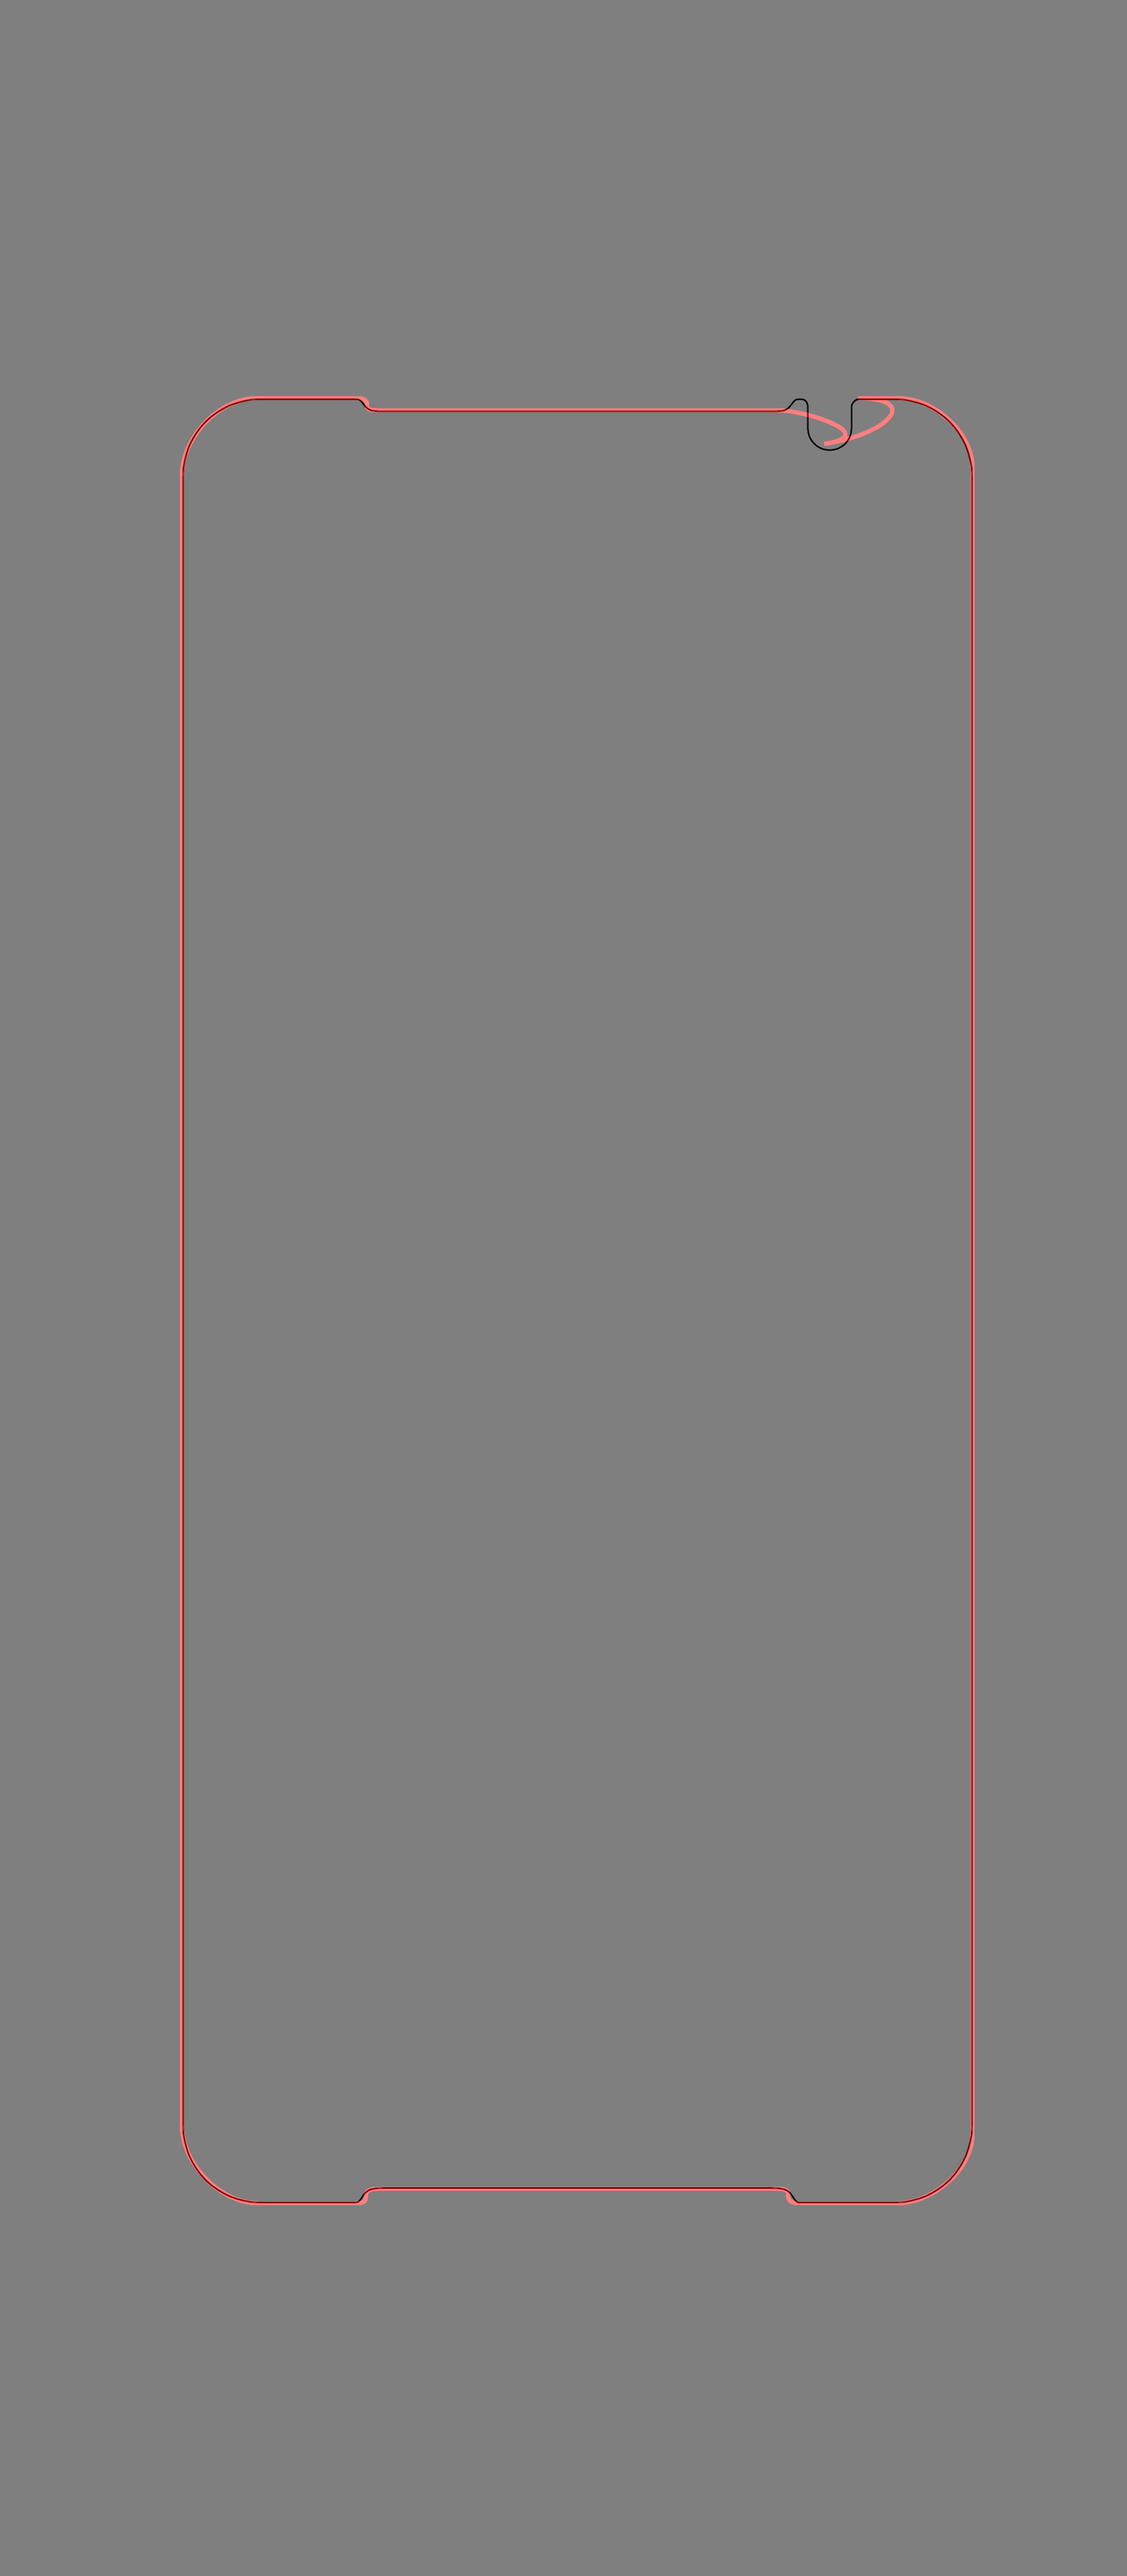
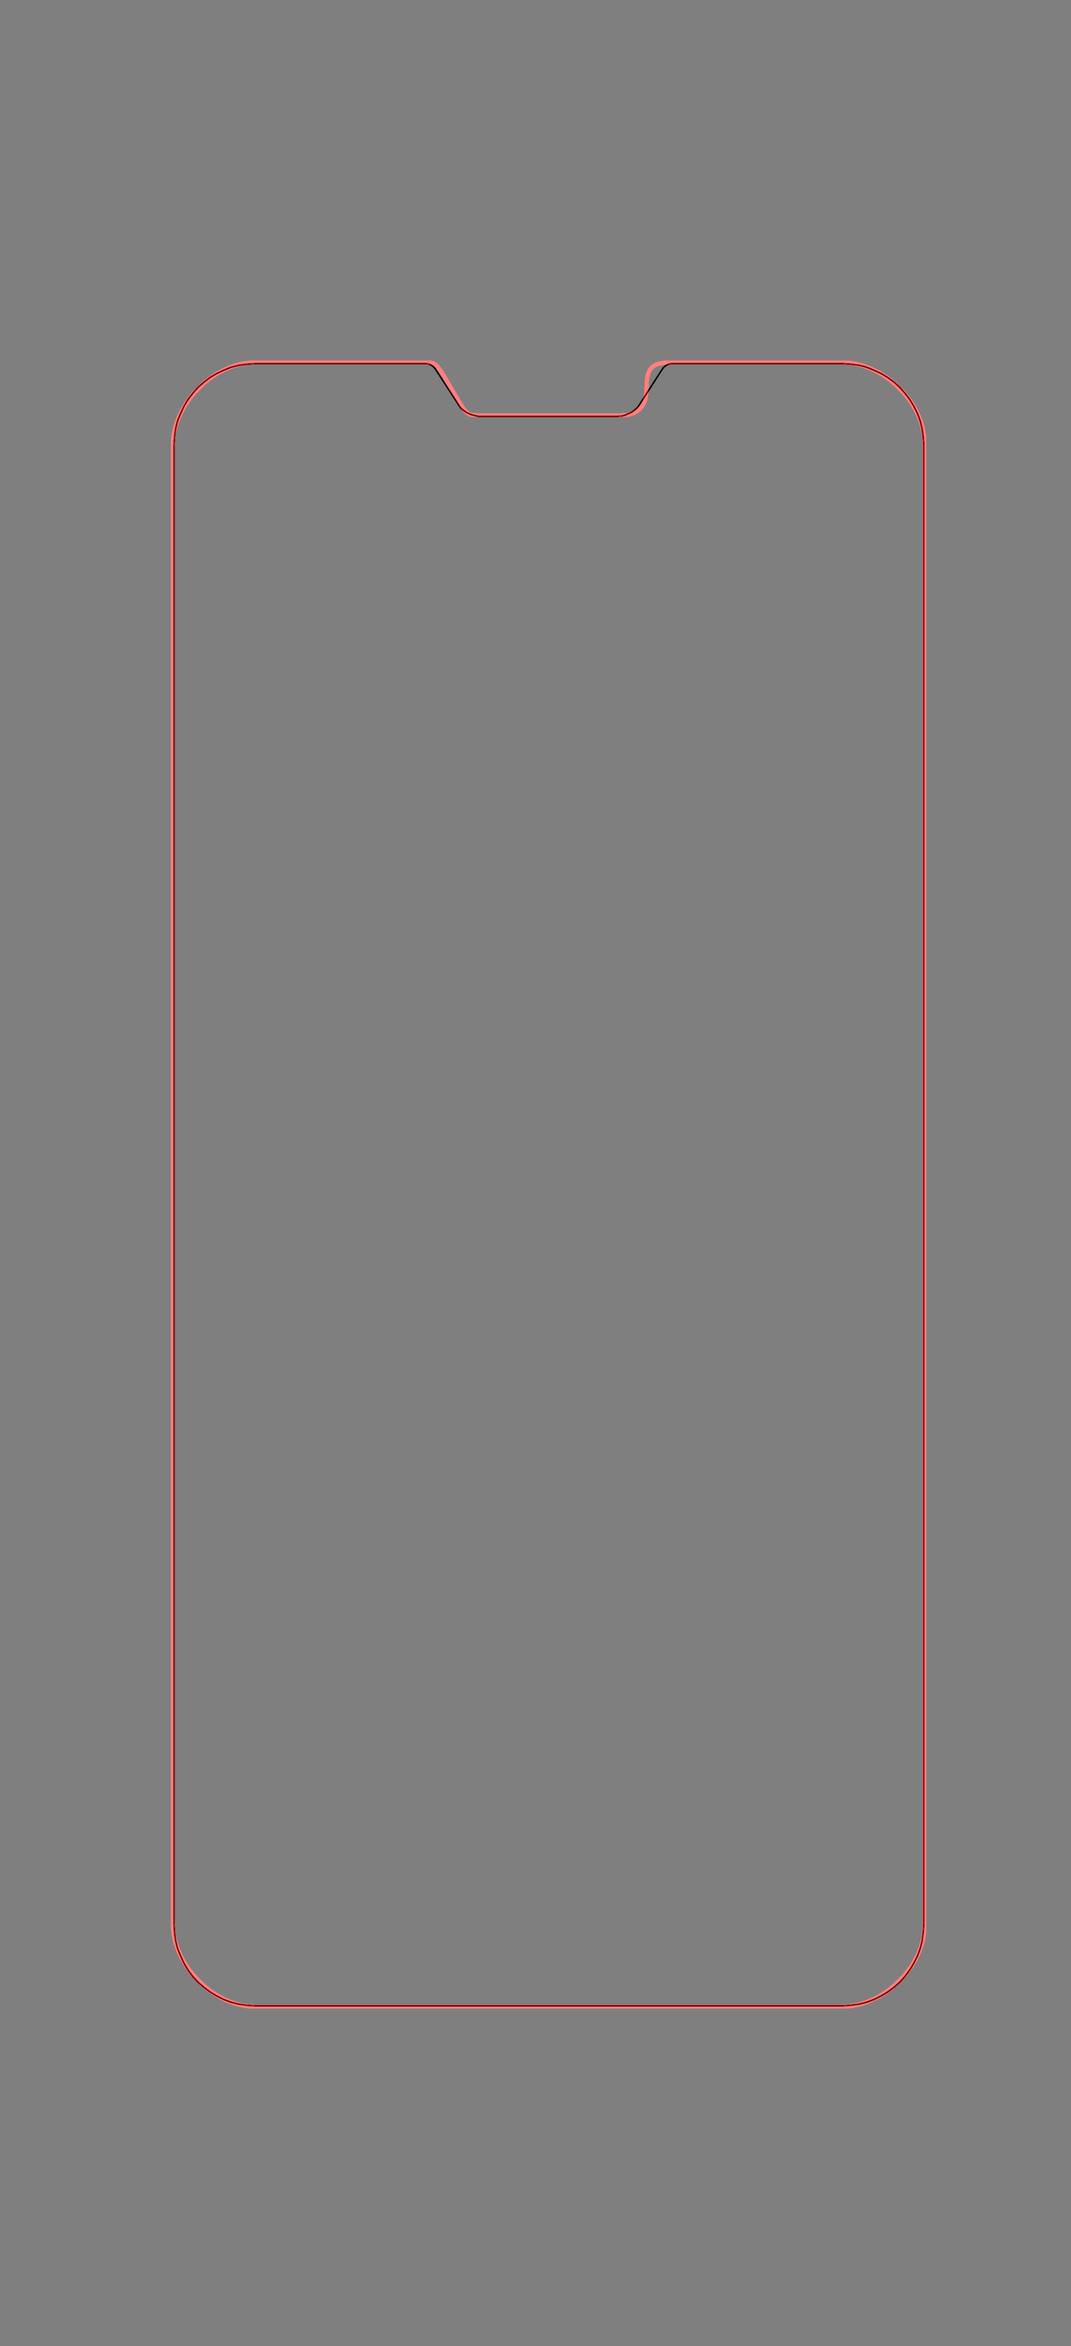
ok

diff --git a/bezier.py b/bezier.py
@@ -91,43 +91,44 @@ class bezier:
         pp2, pp3 = bezier.convertToPoint(lineB)
         xCenter = corner.minX + ((corner.maxX - corner.minX)/2)
         yCenter = corner.minY + ((corner.maxY - corner.minY)/2)
-        return xCenter,yCenter
+        deltaX = lineA[0][0]-lineA[1][0]
+        # deltaY = lineA[0][1]-lineA[1][1]
+        # if deltaY == 0:
+        #     deltaY = 1
+        prop = abs((corner.maxX - corner.minX)/(corner.maxY - corner.minY))
+        return xCenter,yCenter,deltaX,prop
     # S фигура сверху вниз
-    def doSUpDown(xCenter,yCenter, corner, path, dpi, coff0, coff1, dir):
+    def doSUpDown(xCenter,yCenter, corner, path, dpi, coff0, coff1, dir, prop):
         pA = Point(corner.minX,corner.minY)
         pB = Point(xCenter,corner.minY)
         pC = Point(xCenter,yCenter)
         pD = Point(xCenter,corner.maxY)
         pE = Point(corner.maxX,corner.maxY)
+        mode = 0
+        if prop > 0.9 and prop < 1.1:
+            mode = 1
+            coff0 = 0.4
+            coff1 = 0.2
         if dir == False:
             pA, pE = pE, pA
             pB, pD = pD, pB
         path.L(pA.x / dpi, pA.y / dpi) 
         bezP1 = bezier.interpolatePoint(pA, pB, coff0)
-        bezP2 = bezier.interpolatePoint(pB, pC, coff1)
+        bezP2 = bezier.interpolatePoint(pB, pC, 1-coff1)
+        # bezP2 = bezier.interpolatePoint(pA, pC, 0.5)
+        if mode == 1:
+            bezP2 = bezP1
+        # bezP2 = Point(bezP1.x,bezP2.y)
         # path.L(bezP1.x / dpi, bezP1.y / dpi).L(bezP2.x / dpi, bezP2.y / dpi).L( pC.x / dpi, pC.y / dpi)
         path.C(bezP1.x / dpi, bezP1.y / dpi, bezP2.x / dpi, bezP2.y / dpi, pC.x / dpi, pC.y / dpi)
         
-        bezP1 = bezier.interpolatePoint(pC, pD, 0.8)
-        bezP2 = bezier.interpolatePoint(pD, pE, 0.2)
-        # path.L(bezP1.x / dpi, bezP1.y / dpi).L(bezP2.x / dpi, bezP2.y / dpi).L( pE.x / dpi, pE.y / dpi)
-        path.C(bezP1.x / dpi, bezP1.y / dpi, bezP2.x / dpi, bezP2.y / dpi, pE.x / dpi, pE.y / dpi)
-        return
-    def doSUpDown1(xCenter,yCenter, corner, path, dpi, coff0, coff1):
-        pE = Point(corner.minX,corner.minY)
-        pD = Point(xCenter,corner.minY)
-        pC = Point(xCenter,yCenter)
-        pB = Point(xCenter,corner.maxY)
-        pA = Point(corner.maxX,corner.maxY)
-
-        path.L(pA.x / dpi, pA.y / dpi) 
-        bezP1 = bezier.interpolatePoint(pA, pB, coff0)
-        bezP2 = bezier.interpolatePoint(pB, pC, coff1)
-        # path.L(bezP1.x / dpi, bezP1.y / dpi).L(bezP2.x / dpi, bezP2.y / dpi).L( pC.x / dpi, pC.y / dpi)
-        path.C(bezP1.x / dpi, bezP1.y / dpi, bezP2.x / dpi, bezP2.y / dpi, pC.x / dpi, pC.y / dpi)
-        
-        bezP1 = bezier.interpolatePoint(pC, pD, 0.8)
-        bezP2 = bezier.interpolatePoint(pD, pE, 0.2)
+        bezP1 = bezier.interpolatePoint(pC, pD, coff1)
+        # bezP1 = bezier.interpolatePoint(pC, pE, 0.5)
+        bezP2 = bezier.interpolatePoint(pD, pE, 1-coff0)
+        if mode == 1:
+            bezP1 = bezP2
+        # bezP1.x = bezP2.x
+        # bezP1 = Point(bezP2.x,bezP1.y)
         # path.L(bezP1.x / dpi, bezP1.y / dpi).L(bezP2.x / dpi, bezP2.y / dpi).L( pE.x / dpi, pE.y / dpi)
         path.C(bezP1.x / dpi, bezP1.y / dpi, bezP2.x / dpi, bezP2.y / dpi, pE.x / dpi, pE.y / dpi)
         return

diff --git a/cornerFig.py b/cornerFig.py
@@ -120,19 +120,20 @@ class CircuitSvg:
                 lineA = typeFigures[index][1]
                 lineB = typeFigures[index][2]
                 corner = lineA[6]
-                deltaX = lineA[0][0]-lineA[1][0]
-                xCenter,yCenter = bezier.prepareS(lineA, lineB, corner)
+                # deltaX = lineA[0][0]-lineA[1][0]
+                xCenter,yCenter,deltaX,prop = bezier.prepareS(lineA, lineB, corner)
                 if deltaX < 0:
-                    bezier.doSUpDown(xCenter,yCenter, corner, path, dpi, 0.5, 0.2, True)
+                    bezier.doSUpDown(xCenter,yCenter, corner, path, dpi, 0.6, 0.9, True,prop)
+                    # bezier.doSUpDown(xCenter,yCenter, corner, path, dpi, 0.5, 0.2, True,prop)
                 else:
-                    bezier.doSUpDown(xCenter,yCenter, corner, path, dpi, 0.5, 0.2,False)
+                    bezier.doSUpDown(xCenter,yCenter, corner, path, dpi, 0.5, 0.2,False,prop)
                 continue
             if typeFigures[index][0] == FigureStatus.sDownUp:
                 lineA = typeFigures[index][1]
                 lineB = typeFigures[index][2]
                 corner = lineA[6]
-                deltaX = lineA[0][0]-lineA[1][0]
-                xCenter,yCenter = bezier.prepareS(lineA, lineB, corner)
+                # deltaX = lineA[0][0]-lineA[1][0]
+                xCenter,yCenter,deltaX,prop = bezier.prepareS(lineA, lineB, corner)
                 if deltaX < 0:
                     bezier.doSDownUp(xCenter,yCenter, corner, path, dpi, 0.5, 0.2, True)
                 else:
